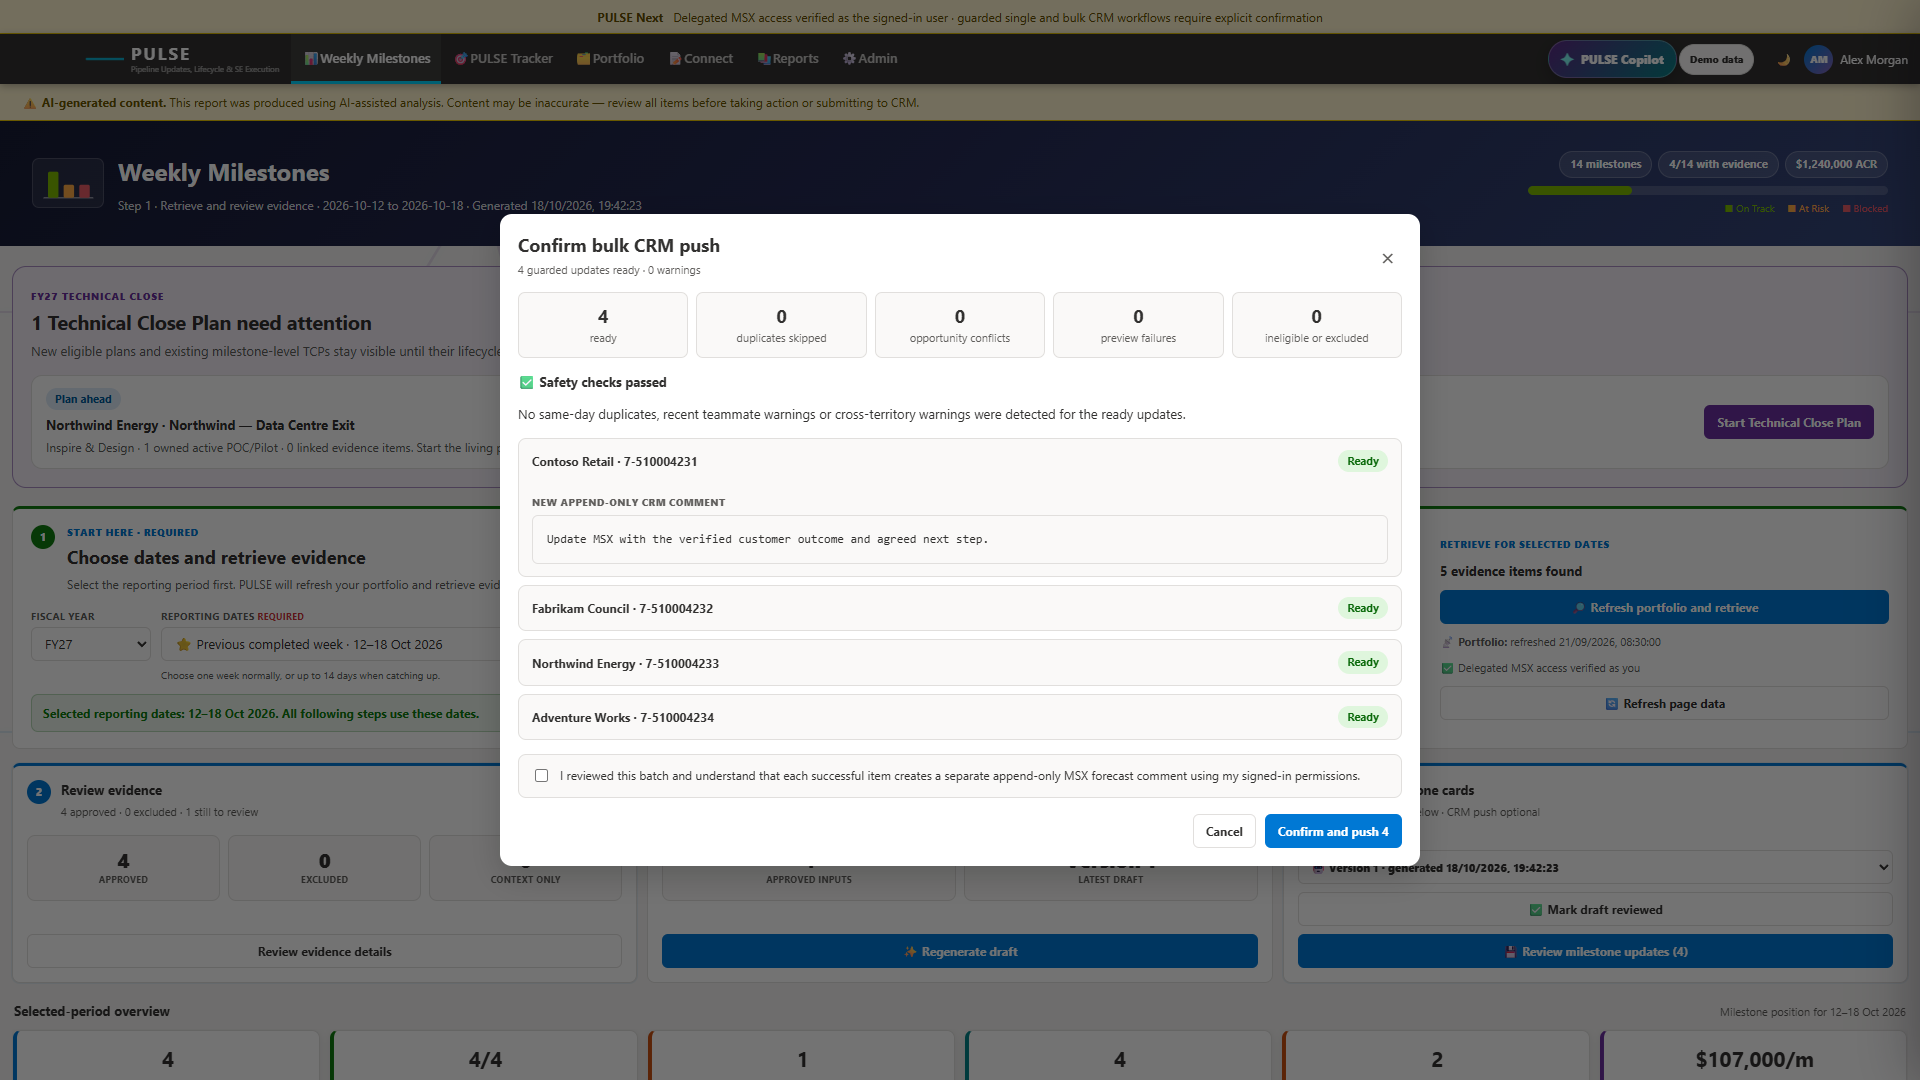
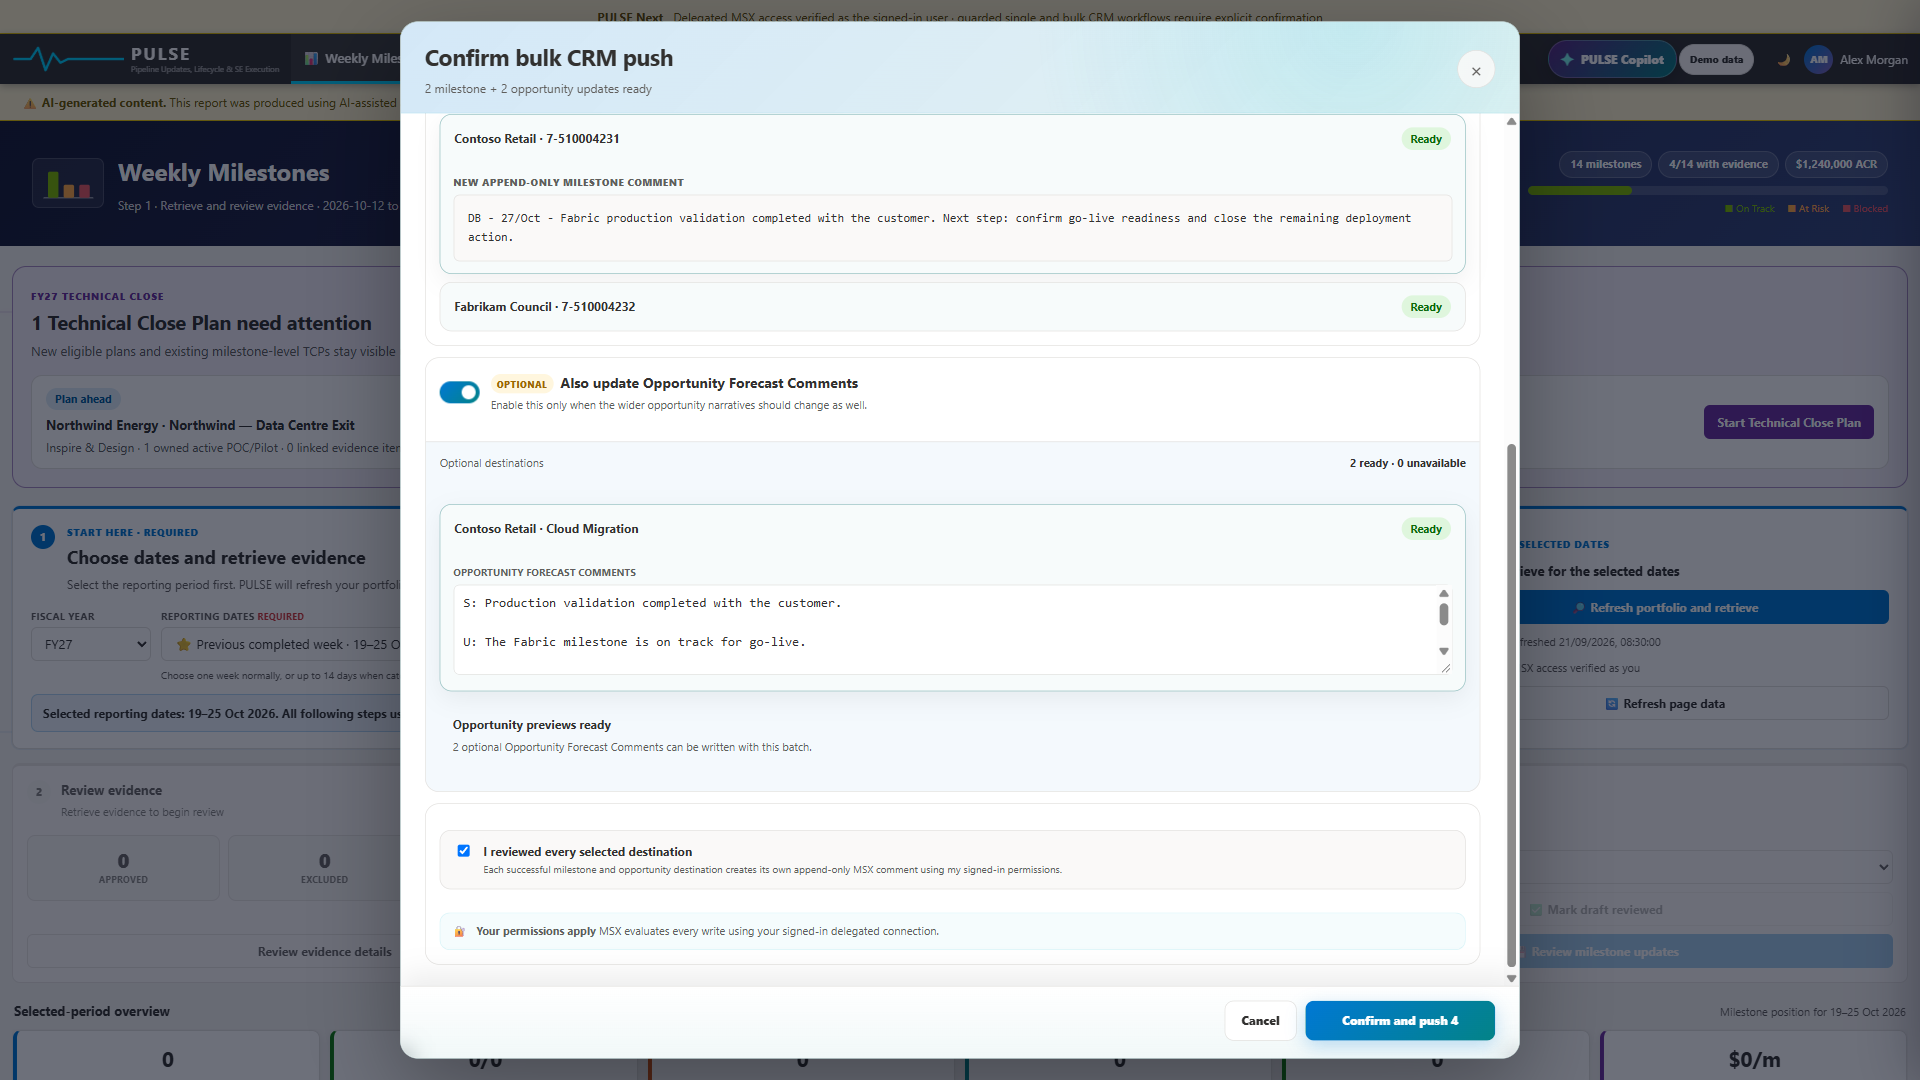
Update bulk CRM modal guide
Copilot-Session: d3c5a5b4-3cc7-45b4-815c-52549e7bdc55

diff --git a/userguide.html b/userguide.html
@@ -130,7 +130,7 @@
   <div class="product-gallery guide-gallery">
     <figure class="app-frame"><img src="images/current/weekly.png" alt="Populated Weekly workflow" /><figcaption>Retrieved evidence, generated draft and milestone update readiness</figcaption></figure>
     <figure class="app-frame"><img src="images/current/weekly-evidence.png" alt="Verified Weekly evidence detail" /><figcaption>Verified evidence, outcome, provenance and destination</figcaption></figure>
-    <figure class="app-frame gallery-wide"><img src="images/current/weekly-msx-preview.png" alt="Guarded MSX push preview" /><figcaption>Exact append-only MSX comments and safety checks before confirmation</figcaption></figure>
+    <figure class="app-frame gallery-wide"><img src="images/current/weekly-msx-preview.png" alt="Guided bulk MSX confirmation with required milestone comments and optional editable opportunity comments" /><figcaption>Required milestone comments, optional opportunity comments and signed-in-user confirmation</figcaption></figure>
   </div>
 
   <h3>Step 1 — Select dates and retrieve</h3>
@@ -170,8 +170,11 @@
     <li>Create active HVA tasks with an explicit duration (15–120 minutes, default 30).</li>
     <li>Use the Technical Close prompt when a Stage 2 or Stage 3 opportunity requires a living plan.</li>
     <li>Select <strong>Review milestone updates</strong> to preview the exact guarded MSX operations.</li>
+    <li>Review every required Milestone Forecast Comment before confirming the batch.</li>
+    <li>Leave <strong>Also update Opportunity Forecast Comments</strong> off unless the wider opportunity narrative should change. When enabled, PULSE shows an editable comment preview for each ready opportunity.</li>
+    <li>Review milestone and opportunity outcomes separately after execution. A duplicate or failed opportunity preview remains excluded without being reported as a successful write.</li>
   </ul>
-  <div class="callout"><strong>Nothing writes silently.</strong> PULSE shows the account, opportunity, milestone, comment and task operation before confirmation. Direct creation reads the task back to verify the stored duration.</div>
+  <div class="callout"><strong>Nothing writes silently.</strong> Milestone comments are required for the selected batch; Opportunity Forecast Comments are optional and off by default. Every selected destination is previewed, confirmed and reported independently using the signed-in user’s permissions. Direct task creation also reads the task back to verify the stored duration.</div>
 
   <h2 id="tracker">5 · PULSE Tracker</h2>
   <p class="lead">Tracker is the execution workspace. It evaluates one evidence-led Stage 2–3 population, then presents that signed-in scope through three deliberately different views: personal action, team decision and discovery.</p>

diff --git a/index.html b/index.html
@@ -95,7 +95,7 @@
       <div class="product-gallery weekly-gallery">
         <figure class="app-frame"><img src="images/current/weekly.png" alt="Populated Weekly Milestones workflow with approved evidence and generated draft" /><figcaption>1 · Evidence retrieved, reviewed and ready</figcaption></figure>
         <figure class="app-frame"><img src="images/current/weekly-evidence.png" alt="Detailed verified Weekly evidence linked to a customer milestone" /><figcaption>2 · Grounded evidence with outcome and destination</figcaption></figure>
-        <figure class="app-frame gallery-wide"><img src="images/current/weekly-msx-preview.png" alt="Guarded PULSE preview before pushing milestone updates to MSX" /><figcaption>3 · Exact append-only MSX updates previewed before confirmation</figcaption></figure>
+        <figure class="app-frame gallery-wide"><img src="images/current/weekly-msx-preview.png" alt="Guided bulk MSX confirmation with required milestone comments and optional editable opportunity comments" /><figcaption>3 · Required milestone comments and optional opportunity comments reviewed separately</figcaption></figure>
       </div>
     </section>
 
